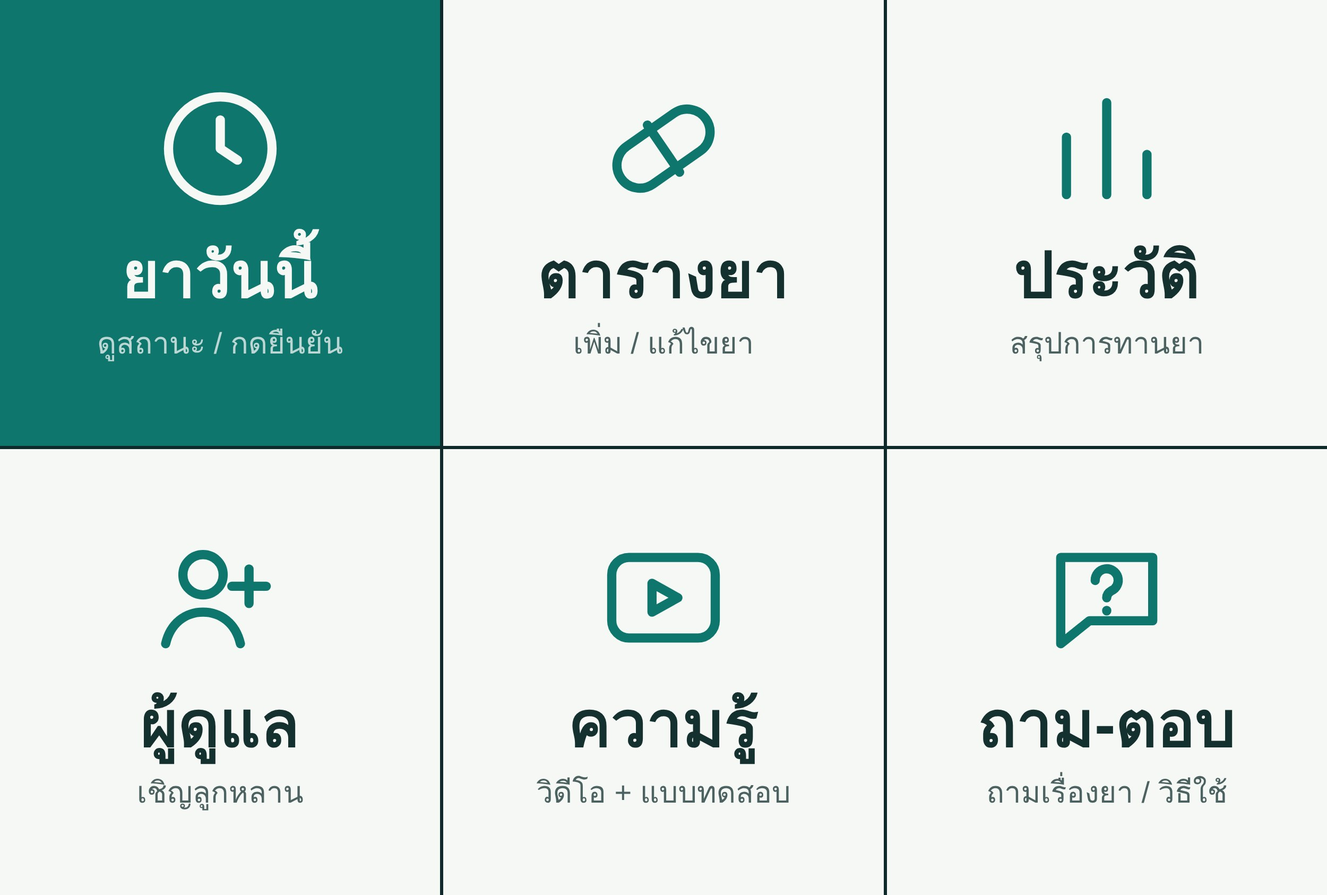
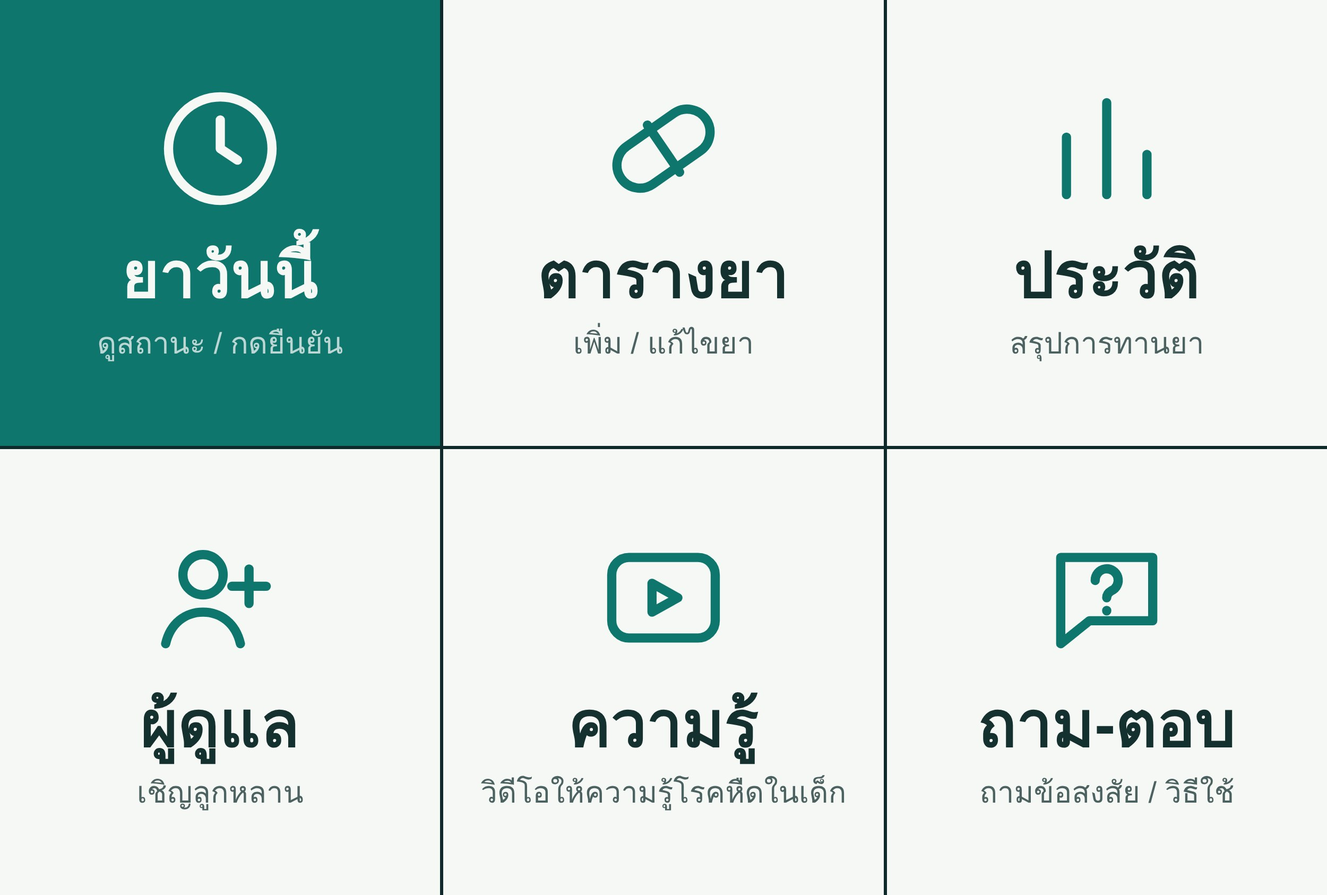
Add files via upload

Changed region(s): [[0.3432, 0.8636, 0.624, 0.8944], [0.7488, 0.8636, 0.936, 0.8944]]

diff --git a/app.js b/app.js
@@ -1,5 +1,5 @@
 /* หน้า LIFF ของ Asthma Smart Kid (ระบบเตือนทานยาผ่าน LINE) — single page app, ไม่มี build step
- * หน้า: ?page=today | meds | history | invite | join&code=XXXX | videos | qa
+ * หน้า: ?page=today | meds | appt | history | invite | join&code=XXXX | videos | qa
  * ทุกคำขอไป Apps Script แนบ LINE ID token (Api.gs ตรวจกับ LINE)
  */
 (function () {
@@ -40,6 +40,10 @@
     ['ก่อนอาหาร เช้า-เย็น', 'breakfast:before,dinner:before'],
     ['ก่อนนอน', 'bedtime']
   ];
+  // ยาสูดพ่น: เวลาตามมื้ออาหารที่ตั้งไว้ (เช้า = เวลาอาหารเช้า, เย็น = เวลาอาหารเย็น) ไม่เลื่อนก่อน/หลังอาหาร
+  var INHALER_PRESETS = [['เช้า', 'breakfast'], ['เช้า-เย็น', 'breakfast,dinner'], ['ก่อนนอน', 'bedtime']];
+  function isInh(m) { return String(m && m.kind || '').toUpperCase() === 'INHALER'; }
+  function verbOf(m) { return isInh(m) ? 'พ่น' : 'ทาน'; }
 
   /* ───────────── utils ───────────── */
 
@@ -91,7 +95,7 @@
   }
   /** บอกผู้ใช้ว่าระบบจะเตือนยานี้ครั้งถัดไปเมื่อไร (ให้มั่นใจว่าตั้งถูก) */
   function nextLine(m) {
-    if (String(m.schedule_type).toUpperCase() === 'PRN') return 'ยานี้ไม่มีการเตือน กด “บันทึกว่าทาน” ในหน้ายาวันนี้เมื่อทาน';
+    if (String(m.schedule_type).toUpperCase() === 'PRN') return 'ยานี้ไม่มีการเตือน กด “บันทึกว่า' + verbOf(m) + '” ในหน้ายาวันนี้เมื่อ' + verbOf(m);
     return m.next_at ? 'เตือนครั้งถัดไป ' + whenText(m.next_at) : 'ยานี้จะไม่มีการเตือนอีก (ตรวจวันที่สิ้นสุด)';
   }
   function ymdLocal(d) { return d.getFullYear() + '-' + ('0' + (d.getMonth() + 1)).slice(-2) + '-' + ('0' + d.getDate()).slice(-2); }
@@ -132,9 +136,9 @@
 
   var PAGES = {
     today: pageToday, meds: pageMeds, history: pageHistory, invite: pageInvite,
-    join: pageJoin, videos: pageVideos, qa: pageQa, register: pageRegister
+    join: pageJoin, videos: pageVideos, qa: pageQa, register: pageRegister, appt: pageAppt
   };
-  var NEED_PATIENT = ['today', 'meds', 'history', 'invite'];
+  var NEED_PATIENT = ['today', 'meds', 'history', 'invite', 'appt'];
 
   function go(page, params) {
     state.page = PAGES[page] ? page : 'today';
@@ -287,24 +291,25 @@
           ${scheduled.length ? html`<span class="badge ok">เสร็จแล้ว ${done}/${scheduled.length}</span>` : ''}</div>
         ${rel === 'proxy' && p.proxyMode ? html`<p class="note">คุณรับข้อความเตือนแทน ${p.name} · กด “ทานแล้ว” เมื่อผู้ป่วยทานยาแล้ว</p>`
           : rel !== 'self' ? html`<p class="note">คุณกำลังดูแทน ${p.name} · การกดจะบันทึกว่าผู้ดูแลยืนยันแทน</p>` : ''}
+        ${d.appt ? apptBanner(d.appt) : ''}
         ${d.doses.length ? '' : html`<div class="card soft"><p>วันนี้ไม่มียาที่ต้องทานตามเวลา</p><button class="btn ghost" data-go="meds">ไปที่ตารางยา</button></div>`}
         ${order.map(function (t) {
           return html`<section class="slot"><div class="slot-time">${t} น.</div>
             ${groups[t].map(function (x) {
               var open = OPEN.indexOf(x.status) >= 0;
               return html`<div class="dose">
-                <div class="dose-top"><div><div class="dose-name">${x.name}</div><div class="dose-meta">${x.is_prn ? 'ทานเมื่อมีอาการ' : x.dose_text || ''}${x.skip_reason ? ' · ข้าม: ' + x.skip_reason : ''}</div></div>${x.is_prn ? html`<span class="badge ok">บันทึกแล้ว</span>` : badge(x.status)}</div>
-                ${open && x.can_confirm ? html`<div class="row"><button class="btn" data-take="${x.dose_id}">ทานแล้ว</button><button class="btn secondary" data-skip="${x.dose_id}">ข้าม</button></div>` : ''}
+                <div class="dose-top"><div><div class="dose-name">${x.name}</div><div class="dose-meta">${x.is_prn ? verbOf(x) + 'เมื่อมีอาการ' : x.dose_text || ''}${x.skip_reason ? ' · ข้าม: ' + x.skip_reason : ''}</div></div>${x.is_prn ? html`<span class="badge ok">บันทึกแล้ว</span>` : badge(x.status)}</div>
+                ${open && x.can_confirm ? html`<div class="row"><button class="btn" data-take="${x.dose_id}">${verbOf(x)}แล้ว</button><button class="btn secondary" data-skip="${x.dose_id}">ข้าม</button></div>` : ''}
                 ${open && !x.can_confirm && x.status === 'PENDING' ? html`<p class="note">กดยืนยันได้ตั้งแต่ ${x.confirm_from} น.</p>` : ''}
                 ${x.can_undo ? html`<button class="btn ghost small undo" data-undo="${x.dose_id}">↩ ยกเลิก (กดผิด)</button>` : ''}
               </div>`;
             })}
           </section>`;
         })}
-        ${d.prn.length ? html`<section class="card"><h2>ยากินเมื่อมีอาการ</h2>
+        ${d.prn.length ? html`<section class="card"><h2>ยาใช้เมื่อมีอาการ</h2>
           ${d.prn.map(function (m) {
             return html`<div class="dose-top"><div><div class="dose-name">${m.name}</div><div class="dose-meta">${m.dose_text || ''}${m.prn_max_per_day ? ' · ไม่เกิน ' + m.prn_max_per_day + ' ครั้ง/วัน' : ''}</div></div>
-              <button class="btn small" data-prn="${m.med_id}">บันทึกว่าทาน</button></div>`;
+              <button class="btn small" data-prn="${m.med_id}">บันทึกว่า${verbOf(m)}</button></div>`;
           })}</section>` : ''}
         <p class="note" style="text-align:center">${state.me.patient ? '' : html`ต้องการรับการเตือนยาของตัวเองด้วย? <a href="#" data-go="register" data-mode="self">ลงทะเบียนเป็นผู้ป่วย</a><br>`}
           ดูแลผู้ป่วยที่ใช้ LINE ไม่ได้? <a href="#" data-go="register" data-mode="proxy">ลงทะเบียนแทนผู้ป่วย</a></p>`);
@@ -342,15 +347,19 @@
   /* ───────────── หน้า: ตารางยา ───────────── */
 
   function describe(m) {
-    var t = String(m.schedule_type).toUpperCase(), s;
+    var t = String(m.schedule_type).toUpperCase(), s, inh = isInh(m);
     if (t === 'FIXED') s = 'เวลา ' + String(m.times).split(',').map(function (x) { return x.trim(); }).join(', ') + ' น.';
+    else if (t === 'MEAL' && inh) s = 'พ่น ' + String(m.meals).split(',').filter(Boolean).map(function (tok) {
+      return { breakfast: 'เช้า', lunch: 'กลางวัน', dinner: 'เย็น', bedtime: 'ก่อนนอน' }[tok.trim().split(':')[0]] || tok;
+    }).join('-');
     else if (t === 'MEAL') s = String(m.meals).split(',').filter(Boolean).map(function (tok) {
       var p = tok.trim().split(':'), name = { breakfast: 'อาหารเช้า', lunch: 'อาหารกลางวัน', dinner: 'อาหารเย็น' }[p[0]];
       if (p[0] === 'bedtime') return 'ก่อนนอน';
       return ({ before: 'ก่อน', after: 'หลัง' }[p[1]] || 'พร้อม') + name;
     }).join(', ');
     else if (t === 'INTERVAL') s = 'ทุก ' + m.interval_hours + ' ชั่วโมง เริ่ม ' + (m.interval_start || '00:00') + ' น.';
-    else s = 'กินเมื่อมีอาการ' + (m.prn_max_per_day ? ' (ไม่เกิน ' + m.prn_max_per_day + ' ครั้ง/วัน)' : '');
+    else s = (inh ? 'พ่น' : 'กิน') + 'เมื่อมีอาการ' + (m.prn_max_per_day ? ' (ไม่เกิน ' + m.prn_max_per_day + ' ครั้ง/วัน)' : '');
+    if (inh) s = 'ยาสูดพ่น · ' + s;
     var dow = String(m.days_of_week || '').trim();
     if (dow) s += ' · เฉพาะวัน ' + dow.split(',').map(function (d) { return DOW[+d]; }).join(' ');
     if (m.end_date) s += ' · ถึง ' + m.end_date;
@@ -376,6 +385,10 @@
             <div class="row"><button class="btn secondary small" data-edit="${m.med_id}">แก้ไข</button><button class="btn danger small" data-del="${m.med_id}">ลบ</button></div>
           </div>`;
         })}
+        <section class="card soft appt-entry">
+          <div class="dose-top"><div><h2>🏥 นัดพบแพทย์</h2><p class="note">ใส่วันนัดจากใบนัด ระบบเตือนเย็นวันก่อนนัดและเช้าวันนัด</p></div>
+            <button class="btn small" data-go="appt">จัดการนัด</button></div>
+        </section>
         <form class="card soft" id="mealForm">
           <h2>เวลามื้ออาหาร</h2>
           <p class="note">ยาที่ตั้งเป็นก่อนอาหารจะเตือนก่อน 30 นาที หลังอาหารเตือนหลัง 15 นาที</p>
@@ -406,12 +419,19 @@
       <div class="page-head"><h1>${m.med_id ? 'แก้ไขยา' : 'เพิ่มยา'}</h1><button class="btn ghost small" data-go="meds">ยกเลิก</button></div>
       <form class="card" id="medForm" novalidate>
         <label class="field"><span><b>1.</b> ชื่อยา</span><input type="text" name="name" maxlength="80" required value="${m.name || ''}" placeholder="ดูจากซองยา เช่น Amlodipine 5mg"></label>
-        <label class="field">ครั้งละ<span class="hint">ไม่บังคับ</span><input type="text" name="dose_text" maxlength="40" value="${m.dose_text || ''}" placeholder="เช่น 1 เม็ด"></label>
+        <label class="field" id="doseTextField">ครั้งละ<span class="hint">ไม่บังคับ</span><input type="text" name="dose_text" maxlength="40" value="${isInh(m) ? '' : m.dose_text || ''}" placeholder="เช่น 1 เม็ด"></label>
 
-        <fieldset class="who"><legend><b>2.</b> ทานตอนไหน <span class="note">(กดตามที่เขียนบนซองยา)</span></legend>
+        <fieldset class="who"><legend><b>2.</b> เวลารับประทานยา <span class="note">(กดตามที่เขียนบนซองยา)</span></legend>
           <div class="presets">${PRESETS.map(function (x) { return html`<button type="button" class="preset" data-preset="${x[1]}">${x[0]}</button>`; })}</div>
           <span class="note">ไม่ตรงกับปุ่มด้านบน? เลือกแบบอื่น:</span>
           <div class="seg">${TYPES.map(function (t) { return html`<label><input type="radio" name="schedule_type" value="${t[0]}" ${raw(t[0] === type ? 'checked' : '')}>${t[1]}</label>`; })}</div>
+        </fieldset>
+
+        <fieldset class="who" id="inhalerBox"><legend><b>3.</b> ยาสูดพ่น <span class="note">(ถ้าเป็นยาพ่น กรอกข้อนี้แทนข้อ 2)</span></legend>
+          <label class="field">ครั้งละ<span class="puff"><input type="number" name="puffs" min="1" max="20" step="1" inputmode="numeric" value="${isInh(m) ? m.units_per_dose || '' : ''}" placeholder="เช่น 2" aria-label="จำนวน puff ต่อครั้ง"><span>puff</span></span></label>
+          <span style="font-weight:600">เวลาพ่นยา</span>
+          <div class="presets">${INHALER_PRESETS.map(function (x) { return html`<button type="button" class="preset" data-ipreset="${x[1]}">${x[0]}</button>`; })}</div>
+          <span class="note">เช้า เย็น และก่อนนอน ใช้เวลามื้ออาหารที่ตั้งไว้ในหน้าตารางยา · ยาพ่นเมื่อมีอาการ: กรอกจำนวน puff แล้วเลือก “เมื่อมีอาการ” ในข้อ 2</span>
         </fieldset>
 
         <div data-type="FIXED" class="times" id="timeList">
@@ -419,7 +439,7 @@
           <button type="button" class="btn ghost small" data-act="addTime">+ เพิ่มเวลา</button>
         </div>
 
-        <div data-type="MEAL" style="display:flex;flex-direction:column;gap:10px">
+        <div data-type="MEAL" id="mealBox" style="display:flex;flex-direction:column;gap:10px">
           ${MEALS.map(function (x) {
             var on = meals[x[0]];
             return html`<div class="meal-row"><label class="chip"><input type="checkbox" name="meal_${x[0]}" ${raw(on ? 'checked' : '')}>${x[1]}</label>
@@ -457,7 +477,7 @@
               <span style="font-weight:600">นับยาคงเหลือ</span><span class="note">กรอกจำนวนยาที่มี ระบบจะเตือนก่อนยาหมด</span>
               <div class="grid2">
                 <label class="field">ยาคงเหลือ<input type="number" name="stock_qty" min="0" inputmode="numeric" value="${m.stock_qty === undefined ? '' : m.stock_qty}"></label>
-                <label class="field">ใช้ต่อครั้ง<input type="number" name="units_per_dose" min="0.5" step="0.5" inputmode="decimal" value="${m.units_per_dose || 1}"></label>
+                <label class="field" id="unitsField">ใช้ต่อครั้ง<input type="number" name="units_per_dose" min="0.5" step="0.5" inputmode="decimal" value="${m.units_per_dose || 1}"></label>
                 <label class="field">เตือนเมื่อเหลือ (วัน)<input type="number" name="low_stock_days" min="0" inputmode="numeric" value="${m.low_stock_days || ''}" placeholder="3"></label>
               </div>
             </div>
@@ -466,17 +486,28 @@
 
         <div class="preview" id="preview" aria-live="polite"></div>
         <p class="err" id="formErr" hidden></p>
-        <button class="btn" type="submit"><b>3.</b>&nbsp;บันทึก</button>
+        <button class="btn" type="submit">บันทึก</button>
       </form>`);
 
     var form = $view.querySelector('#medForm');
+    form.dataset.kind = isInh(m) ? 'INHALER' : '';
     var sync = function () {
-      var t = form.querySelector('input[name=schedule_type]:checked').value;
+      var t = form.querySelector('input[name=schedule_type]:checked').value, inh = form.dataset.kind === 'INHALER';
       form.querySelectorAll('[data-type]').forEach(function (el) { el.hidden = el.dataset.type !== t; });
       form.querySelector('[data-notprn]').hidden = t === 'PRN';
-      // ไฮไลต์ปุ่มลัดที่ตรงกับค่าปัจจุบัน
+      // ยาสูดพ่น: จำนวนต่อครั้งอยู่ในข้อ 3 และเวลาเช้า/เย็นไม่มีก่อน/หลังอาหาร จึงซ่อนช่องที่ซ้ำกัน
+      form.querySelector('#doseTextField').hidden = inh;
+      form.querySelector('#unitsField').hidden = inh;
+      if (inh) form.querySelector('#mealBox').hidden = true;
+      form.querySelector('#inhalerBox').classList.toggle('on', inh);
+      // ไฮไลต์ปุ่มลัดที่ตรงกับค่าปัจจุบัน (ข้อ 2 = ยากิน, ข้อ 3 = ยาพ่น)
       var cur = t === 'MEAL' ? collectMed(form, m.med_id).meals : '';
-      form.querySelectorAll('[data-preset]').forEach(function (b) { b.classList.toggle('on', b.dataset.preset === cur); b.setAttribute('aria-pressed', b.dataset.preset === cur); });
+      form.querySelectorAll('[data-preset]').forEach(function (b) { var on = !inh && b.dataset.preset === cur; b.classList.toggle('on', on); b.setAttribute('aria-pressed', on); });
+      form.querySelectorAll('[data-ipreset]').forEach(function (b) { var on = inh && b.dataset.ipreset === cur; b.classList.toggle('on', on); b.setAttribute('aria-pressed', on); });
+    };
+    var setKind = function (k) {
+      form.dataset.kind = k;
+      if (!k) form.elements.puffs.value = '';
     };
     var applyPreset = function (meals) {
       form.querySelector('input[name=schedule_type][value=MEAL]').checked = true;
@@ -502,7 +533,7 @@
         : close ? 'เวลา ' + close + ' ห่างกันไม่ถึง 1 ชั่วโมง ตรวจว่าตรงกับซองยา'
         : times.length > 6 ? 'เตือนบ่อยมาก (วันละ ' + times.length + ' ครั้ง) ข้อความฟรีของ LINE (300 ข้อความ/เดือน) อาจหมดเร็ว' : '';
       form.querySelector('#preview').innerHTML = String(med.schedule_type === 'PRN'
-        ? html`<b>ไม่มีการเตือน</b> · กด “บันทึกว่าทาน” ในหน้ายาวันนี้ทุกครั้งที่ทาน`
+        ? html`<b>ไม่มีการเตือน</b> · กด “บันทึกว่า${verbOf(med)}” ในหน้ายาวันนี้ทุกครั้งที่${verbOf(med)}`
         : times.length ? html`<b>ระบบจะเตือนเวลา</b> ${times.join(', ')} น. · ${dows}${range}<br><span class="note">วันละ ${times.length} ครั้ง</span>${warn ? html`<br><b class="err">⚠ ${warn}</b>` : ''}`
         : html`<b>ยังไม่มีเวลาเตือน</b> · กรอกข้อมูลด้านบนให้ครบ`);
     };
@@ -510,10 +541,20 @@
       form.querySelector('#formErr').hidden = true;
       sync(); showPreview();
     });
-    form.addEventListener('input', showPreview);
+    form.addEventListener('input', function (e) {
+      form.querySelector('#formErr').hidden = true;
+      if (e.target.name === 'puffs' && e.target.value !== '' && form.dataset.kind !== 'INHALER') { setKind('INHALER'); sync(); }
+      showPreview();
+    });
     form.addEventListener('click', function (e) {
       var pr = e.target.closest('[data-preset]');
-      if (pr) return applyPreset(pr.dataset.preset);
+      if (pr) { setKind(''); return applyPreset(pr.dataset.preset); }
+      var ip = e.target.closest('[data-ipreset]');
+      if (ip) {
+        setKind('INHALER'); applyPreset(ip.dataset.ipreset);
+        if (!form.elements.puffs.value) form.elements.puffs.focus();
+        return;
+      }
       if (e.target.closest('[data-act=addTime],[data-act=rmTime]')) setTimeout(showPreview, 0);
     });
     sync(); showPreview();
@@ -559,8 +600,14 @@
       name: val('name'), dose_text: val('dose_text'), note: val('note'), schedule_type: t,
       times: '', meals: '', interval_hours: '', interval_start: '', prn_max_per_day: '',
       days_of_week: '', start_date: '', end_date: '',
-      stock_qty: num('stock_qty'), units_per_dose: num('units_per_dose') || 1, low_stock_days: num('low_stock_days')
+      stock_qty: num('stock_qty'), units_per_dose: num('units_per_dose') || 1, low_stock_days: num('low_stock_days'),
+      kind: form.dataset.kind === 'INHALER' ? 'INHALER' : ''
     };
+    if (med.kind) {   // ยาสูดพ่น: "ครั้งละ N puff" นับยาคงเหลือเป็น puff และเวลาเช้า/เย็นไม่มีก่อน/หลังอาหาร
+      med.puffs = num('puffs');
+      med.dose_text = med.puffs ? med.puffs + ' puff' : '';
+      med.units_per_dose = med.puffs || 1;
+    }
     if (medId) med.med_id = medId;
     if (t === 'FIXED') {
       var ts = Array.prototype.map.call(form.querySelectorAll('input[name=time]'), function (i) { return i.value; }).filter(Boolean);
@@ -571,6 +618,7 @@
         .map(function (x) { return x[0] + ':' + form.elements['when_' + x[0]].value; });
       if (form.elements.meal_bedtime.checked) parts.push('bedtime');
       med.meals = parts.join(',');
+      if (med.kind) med.meals = med.meals.replace(/:with/g, '');   // ยาพ่น: ตรงเวลามื้อ ไม่มีก่อน/หลังอาหาร
     }
     if (t === 'INTERVAL') { med.interval_hours = num('interval_hours'); med.interval_start = val('interval_start'); }
     if (t === 'PRN') med.prn_max_per_day = num('prn_max_per_day');
@@ -613,6 +661,7 @@
 
   function validateMed(m) {
     if (!m.name) return 'กรุณาระบุชื่อยา';
+    if (m.kind === 'INHALER' && !(m.puffs >= 1 && m.puffs <= 20 && m.puffs === Math.floor(m.puffs))) return 'ยาสูดพ่น: กรอกจำนวน puff ต่อครั้ง (1–20)';
     if (m.schedule_type === 'FIXED' && !m.times) return 'กรุณาระบุเวลาอย่างน้อย 1 เวลา';
     if (m.schedule_type === 'MEAL' && !m.meals) return 'กรุณาเลือกมื้ออาหารอย่างน้อย 1 มื้อ';
     if (m.schedule_type === 'INTERVAL' && !(m.interval_hours >= 1 && m.interval_hours <= 24)) return 'ช่วงเวลาต้องอยู่ระหว่าง 1–24 ชั่วโมง';
@@ -631,6 +680,91 @@
       api('deleteMed', { medId: medId }).then(function () { toast('ลบแล้ว'); go('meds'); }).catch(function (err) { toast(err.message); });
     };
     $dialog.showModal();
+  }
+
+  /* ───────────── หน้า: นัดพบแพทย์ ───────────── */
+
+  function apptWhen(a) {
+    return a.days_left === 0 ? 'วันนี้' : a.days_left === 1 ? 'พรุ่งนี้' : a.days_left > 1 ? 'อีก ' + a.days_left + ' วัน' : '';
+  }
+
+  /** การ์ดนัดครั้งถัดไปบนหน้า "วันนี้" */
+  function apptBanner(a) {
+    return html`<div class="card appt-banner">
+      <div class="dose-top"><div><div class="dose-name">🏥 นัดพบแพทย์${a.days_left <= 1 ? ' ' + apptWhen(a) : ''}</div>
+        <div class="dose-meta">${a.date_text}${a.time ? ' · ' + a.time + ' น.' : ''}${a.place ? ' · ' + a.place : ''}</div></div>
+        ${a.days_left > 1 ? html`<span class="badge">${apptWhen(a)}</span>` : html`<span class="badge warn">${apptWhen(a)}</span>`}</div>
+      <button class="btn ghost small" data-go="appt">ดูนัดทั้งหมด</button>
+    </div>`;
+  }
+
+  function apptCard(a, past) {
+    var when = apptWhen(a);
+    return html`<div class="card appt">
+      <div class="dose-top"><div><div class="dose-name">${a.date_text}</div>
+        <div class="dose-meta">${a.time ? 'เวลา ' + a.time + ' น.' : 'ไม่ระบุเวลา'}${a.place ? ' · ' + a.place : ''}</div></div>
+        ${!past && when ? html`<span class="badge ${a.days_left <= 1 ? 'warn' : ''}">${when}</span>` : ''}</div>
+      ${a.note ? html`<p class="note">${a.note}</p>` : ''}
+      ${past ? '' : html`<div class="row"><button class="btn secondary small" data-aedit="${a.appt_id}">แก้ไข</button><button class="btn danger small" data-adel="${a.appt_id}">ลบ</button></div>`}
+    </div>`;
+  }
+
+  function pageAppt(params) {
+    var p = currentPatient();
+    return api('listAppts', { patientId: state.patientId }).then(function (r) {
+      var edit = params && params.edit ? r.upcoming.filter(function (a) { return a.appt_id === params.edit; })[0] : null;
+      var today = ymdLocal(new Date());
+      render(html`
+        <div class="page-head"><div><h1>นัดพบแพทย์</h1><p class="sub">${p ? p.name + ' · ' : ''}${r.upcoming.length ? r.upcoming.length + ' นัดที่จะถึง' : 'ยังไม่มีนัด'}</p></div>
+          <button class="btn ghost small" data-go="meds">กลับ</button></div>
+        <p class="note">ระบบส่ง LINE เตือนเย็นวันก่อนนัด (${r.remind.eve} น.) และเช้าวันนัด (${r.remind.morning} น.) ถึงคนที่รับข้อความเตือนยา</p>
+        <div id="apptList">${r.upcoming.length ? r.upcoming.map(function (a) { return apptCard(a, false); })
+          : html`<div class="card soft"><p>ยังไม่มีนัด เพิ่มวันนัดจากใบนัดของโรงพยาบาลได้ด้านล่าง</p></div>`}</div>
+        <form class="card" id="apptForm" novalidate>
+          <h2>${edit ? 'แก้ไขนัด' : 'เพิ่มนัด'}</h2>
+          <div class="grid2">
+            <label class="field">วันนัด<input type="date" name="date" required min="${today}" value="${edit ? edit.date : ''}"></label>
+            <label class="field">เวลา<span class="hint">ไม่บังคับ</span><input type="time" name="time" value="${edit ? edit.time : ''}"></label>
+          </div>
+          <label class="field">สถานที่<span class="hint">ไม่บังคับ</span><input type="text" name="place" maxlength="80" value="${edit ? edit.place : ''}" placeholder="เช่น คลินิกโรคหืด โรงพยาบาล…"></label>
+          <label class="field">หมายเหตุ<span class="hint">ไม่บังคับ</span><input type="text" name="note" maxlength="120" value="${edit ? edit.note : ''}" placeholder="เช่น นำยาพ่นและสมุดนัดไปด้วย"></label>
+          <p class="err" hidden></p>
+          <div class="row"><button class="btn" type="submit">${edit ? 'บันทึกการแก้ไข' : 'บันทึกนัด'}</button>
+            ${edit ? html`<button class="btn secondary" type="button" data-go="appt">ยกเลิกการแก้ไข</button>` : ''}</div>
+        </form>
+        ${r.past.length ? html`<details class="more"><summary>นัดที่ผ่านมา (${r.past.length})</summary>
+          ${r.past.map(function (a) { return apptCard(a, true); })}</details>` : ''}`);
+
+      var form = $view.querySelector('#apptForm');
+      if (edit) form.scrollIntoView();
+      form.addEventListener('submit', function (e) {
+        e.preventDefault();
+        var v = formData(form), $err = form.querySelector('.err'), btn = form.querySelector('button[type=submit]');
+        var msg = !v.date ? 'กรุณาเลือกวันนัด' : v.date < today ? 'วันนัดผ่านไปแล้ว ตรวจวันที่อีกครั้ง' : '';
+        if (msg) { $err.textContent = msg; $err.hidden = false; return; }
+        $err.hidden = true; btn.disabled = true;
+        if (edit) v.appt_id = edit.appt_id;
+        api('saveAppt', { patientId: state.patientId, appt: v }).then(function (a) {
+          toast('บันทึกนัดแล้ว · ' + a.date_text + (a.time ? ' ' + a.time + ' น.' : ''));
+          go('appt');
+        }).catch(function (err) { btn.disabled = false; $err.textContent = err.message; $err.hidden = false; });
+      });
+      $view.querySelector('#apptList').onclick = function (e) {
+        var ed = e.target.closest('[data-aedit]'), del = e.target.closest('[data-adel]');
+        if (ed) return go('appt', { edit: ed.dataset.aedit });
+        if (!del) return;
+        var a = r.upcoming.filter(function (x) { return x.appt_id === del.dataset.adel; })[0] || {};
+        $dialog.innerHTML = String(html`<h2>ลบนัด ${a.date_text || ''}?</h2><p class="note">ระบบจะไม่เตือนนัดนี้อีก</p>
+          <div class="dialog-actions"><button class="btn danger" data-yes>ลบนัด</button><button class="btn secondary" data-no>ยกเลิก</button></div>`);
+        $dialog.onclick = function (ev) {
+          if (ev.target.closest('[data-no]')) return $dialog.close();
+          if (!ev.target.closest('[data-yes]')) return;
+          $dialog.close();
+          api('deleteAppt', { apptId: a.appt_id }).then(function () { toast('ลบนัดแล้ว'); go('appt'); }).catch(function (err) { toast(err.message); });
+        };
+        $dialog.showModal();
+      };
+    });
   }
 
   /* ───────────── หน้า: ประวัติ ───────────── */
@@ -796,7 +930,7 @@
   function qaNorm(s) {
     return String(s || '').toLowerCase().replace(/รับประทาน|ทาน/g, 'กิน').replace(/[\s?？!.,，、:;'"“”()\-–—…]/g, '');
   }
-  var QA_URGENT = 'ถ้ามีอาการรุนแรง เช่น หายใจลำบาก แน่นหน้าอก หน้าหรือปากบวม ผื่นขึ้นทั้งตัว ชัก หมดสติ โทร 1669 ทันที ไม่ต้องรอคำตอบ · ทานยาเกินขนาด โทรศูนย์พิษวิทยา 1367 (24 ชม.)';
+  var QA_URGENT = 'ถ้าเด็กมีอาการหายใจเหนื่อย ปีกจมูกบาน อกบุ๋ม ริมฝีปากเขียว ปลายมือปลายเท้าม่วง เรียก 1669 ทันที หรือรีบนำส่งโรงพยาบาล';
   var Q_STATUS = { OPEN: ['รอคำตอบ', 'warn'], ANSWERED: ['ตอบแล้ว', 'ok'] };
 
   function shortTime(iso) { return iso ? whenText(iso).replace('พรุ่งนี้', '').trim() : ''; }
@@ -810,7 +944,7 @@
     return html`<div class="qa-item">
       <div class="dose-top"><div class="qa-q">${q.text}</div><span class="badge ${st[1]}">${st[0]}</span></div>
       <div class="note">ถามเมื่อ ${shortTime(q.asked_at)}</div>
-      ${q.answer ? html`<div class="qa-a"><b>${state.me.qaTeam || 'เภสัชกร'}ตอบ:</b> ${q.answer}</div>` : ''}
+      ${q.answer ? html`<div class="qa-a"><b>${state.me.qaTeam || 'พยาบาล'}ตอบ:</b> ${q.answer}</div>` : ''}
     </div>`;
   }
 
@@ -832,12 +966,12 @@
   }
 
   function pageQa() {
-    var me = state.me, team = me.qaTeam || 'เภสัชกร';
+    var me = state.me, team = me.qaTeam || 'พยาบาล';
     var friendship = liff.getFriendship ? liff.getFriendship().catch(function () { return { friendFlag: true }; }) : Promise.resolve({ friendFlag: true });
     return Promise.all([api('faq'), api('myQuestions'), me.isQaStaff ? api('staffQuestions') : null, friendship]).then(function (r) {
       var faqs = r[0], mine = r[1], staff = r[2], isFriend = !!r[3].friendFlag;
       var oa = me.oaBasicId || CFG.OA_BASIC_ID;
-      render(html`<div class="page-head"><div><h1>ถาม-ตอบเรื่องยา</h1>
+      render(html`<div class="page-head"><div><h1>ถาม-ตอบ</h1>
           <p class="sub">${me.hasQaStaff ? 'ค้นหาคำถามที่พบบ่อย หรือส่งคำถามถึง' + team : 'ค้นหาคำถามที่พบบ่อย'}</p></div></div>
         ${staff ? html`<section class="card" id="staffBox">
           <h2>คำถามรอตอบ (${staff.open.length})</h2>
@@ -864,7 +998,7 @@
           <div id="askResult" hidden></div>
           <p class="err" hidden></p>
           <button class="btn" type="submit">ส่งคำถาม</button>
-        </form>` : html`<div class="card soft"><p>ยังไม่มี${team}ตอบคำถามในระบบ ถ้าไม่พบคำตอบ สอบถาม${team}ที่ร้านยาหรือโรงพยาบาลที่รับยา</p></div>`}
+        </form>` : html`<div class="card soft"><p>ยังไม่มี${team}ตอบคำถามในระบบ ถ้าไม่พบคำตอบ สอบถามแพทย์หรือพยาบาลที่โรงพยาบาลที่รักษา</p></div>`}
         <section class="card">
           <h2>คำถามของฉัน</h2>
           ${mine.length ? mine.map(myQuestionItem) : html`<p class="note">ยังไม่เคยส่งคำถาม · พิมพ์คำถามในแชต LINE ก็ได้</p>`}

diff --git a/style.css b/style.css
@@ -199,3 +199,16 @@ details.faq[open] > summary::after { transform: rotate(180deg); }
 label.check { display: flex; align-items: center; gap: 10px; min-height: 44px; cursor: pointer; }
 label.check input { width: 22px; height: 22px; flex: none; accent-color: var(--brand); }
 .faq-extra { display: flex; flex-direction: column; gap: 12px; }
+
+/* ยาสูดพ่น: ช่อง puff และกรอบข้อ 3 เมื่อเลือกเป็นยาพ่น */
+.puff { display: flex; align-items: center; gap: 10px; }
+.puff input { max-width: 120px; }
+.puff span { font-weight: 600; }
+#inhalerBox { border: 1.5px dashed var(--line); border-radius: 14px; padding: 12px 14px 14px; }
+#inhalerBox legend { padding: 0 6px; }
+#inhalerBox.on { border-style: solid; border-color: var(--brand); background: var(--brand-soft); }
+
+/* นัดพบแพทย์ */
+.appt-banner { border-left: 6px solid var(--warn); display: flex; flex-direction: column; gap: 10px; }
+.appt-entry h2 { margin: 0 0 4px; }
+.card.appt + .card.appt { margin-top: 0; }
